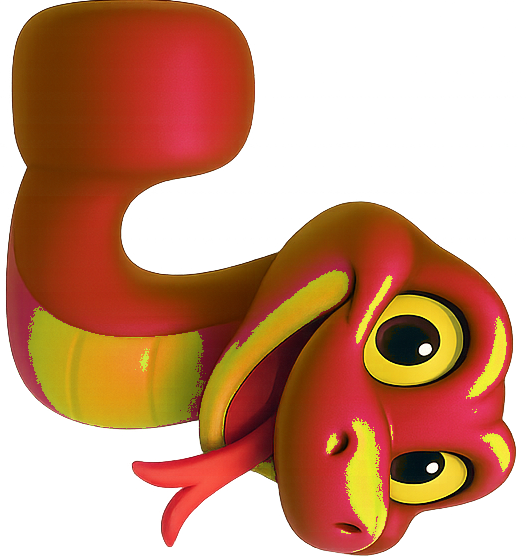
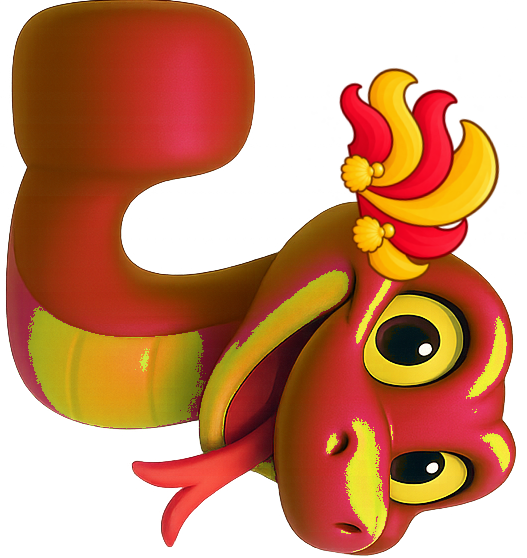
feat: Nouvel An chinois complet, fusées, fonds, monstres et crinière du serpent
- dix fusées, logos de MultiSnake et MultiInvaders, huit fonds par avatar
  (le 3e avec la roue des douze animaux) et 155 monstres
- la fête costume toutes les familles d'images (worlds: 8)
- crinière de dragon de parade sur les quatre têtes du serpent
- skill : gros lot lancé avant la remise à zéro du quota, crinière du serpent

Changed region(s): [[0.6376, 0.1219, 0.9715, 0.5179]]

diff --git a/js/core/seasons.js b/js/core/seasons.js
@@ -131,12 +131,13 @@ export const SEASONS = Object.freeze([
     worlds: 8,
   }),
   // De la veille du Nouvel An lunaire à la fête des Lanternes (15e jour) : 16 jours, date
-  // nouvelle chaque année. Fusées, fonds, monstres et logos des jeux d'Arcade à venir.
+  // nouvelle chaque année.
   Object.freeze({
     id: 'lunarnewyear',
     movable: Object.freeze({ day: lunarNewYearDay, before: 1, after: 14 }),
     themes: Object.freeze({ light: 'lanterns', dark: 'dragondance' }),
-    costumes: Object.freeze(['heads', 'bodies', 'snake', 'miam', 'gifts', 'hero']),
+    costumes: EVERY_COSTUME,
+    worlds: 8,
   }),
 ]);
 
